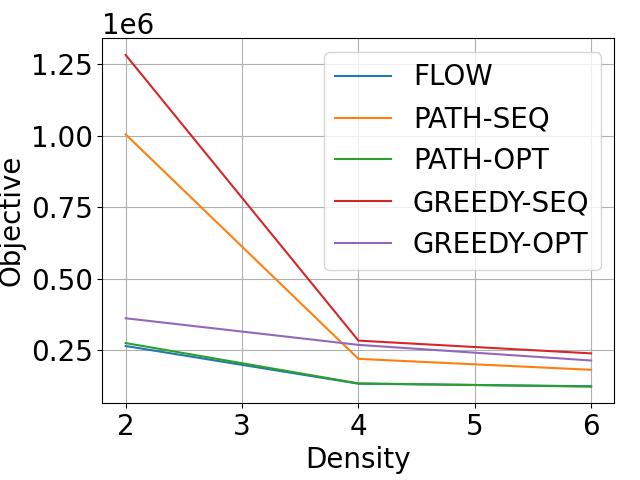
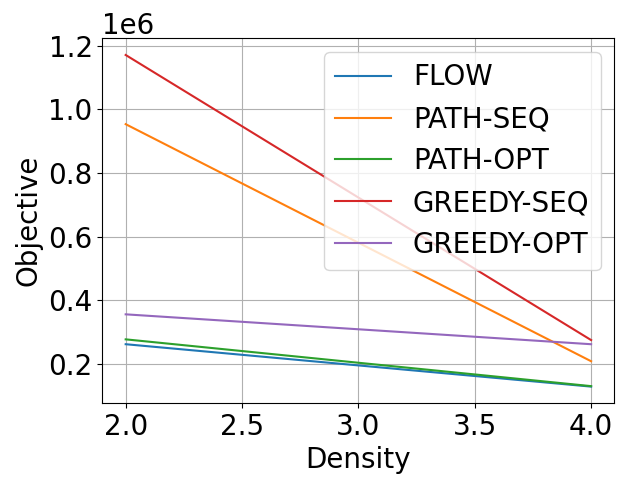
sync

diff --git a/src/test/efficiency.py b/src/test/efficiency.py
@@ -123,17 +123,18 @@ def compare_efficiency(vsrc:VertexSource, params, repeat=1):
     task = Task(vset, 0.5, (demand, demand+1))
     raw_net = Topology(task=task, hw_params=params)
 
+    node_num = len(vset.vertices)
     flow_density_control = 10000
-    # if node_num <= 50:
-    #     flow_density_control = 8
-    # if node_num <= 35:
-    #     flow_density_control = 8
-    # if node_num <= 30:
-    #     flow_density_control = 10
-    # if node_num <= 20:
-    #     flow_density_control = 10
-    # if node_num <= 10:
-    #     flow_density_control = 10
+    if node_num <= 50:
+        flow_density_control = 6
+    if node_num <= 35:
+        flow_density_control = 8
+    if node_num <= 30:
+        flow_density_control = 10
+    if node_num <= 20:
+        flow_density_control = 10
+    if node_num <= 10:
+        flow_density_control = 10
 
     for i, density in enumerate(densities):
         print(f"density {density}")
@@ -277,7 +278,7 @@ if __name__ == '__main__':
     params['swap_prob'] = 0.75
 
     vsrcs = [VertexSource.EENET, VertexSource.NOEL, VertexSource.RENATOR]
-    # vsrcs = [VertexSource.NOEL, VertexSource.RENATOR]
+    vsrcs = [VertexSource.RENATOR]
     for vsrc in vsrcs:
-        compare_efficiency(vsrc, params, repeat=5)
+        compare_efficiency(vsrc, params, repeat=1)
     
